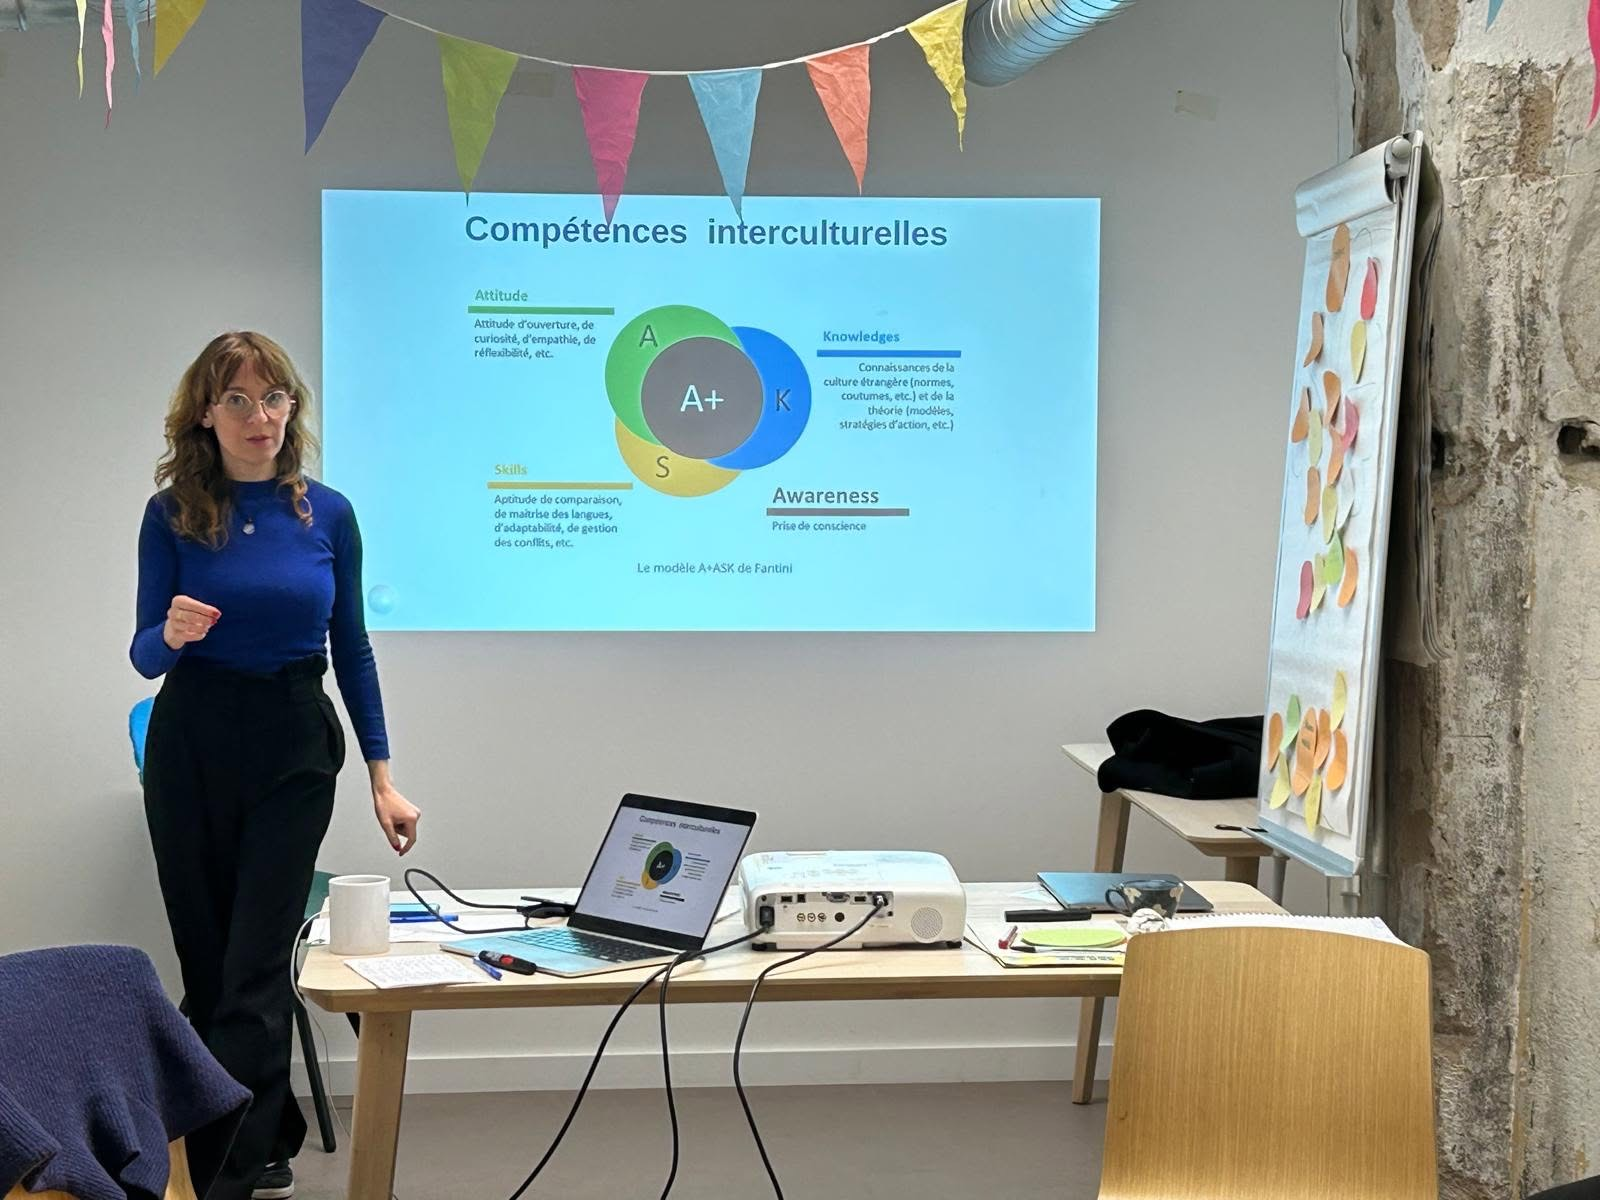
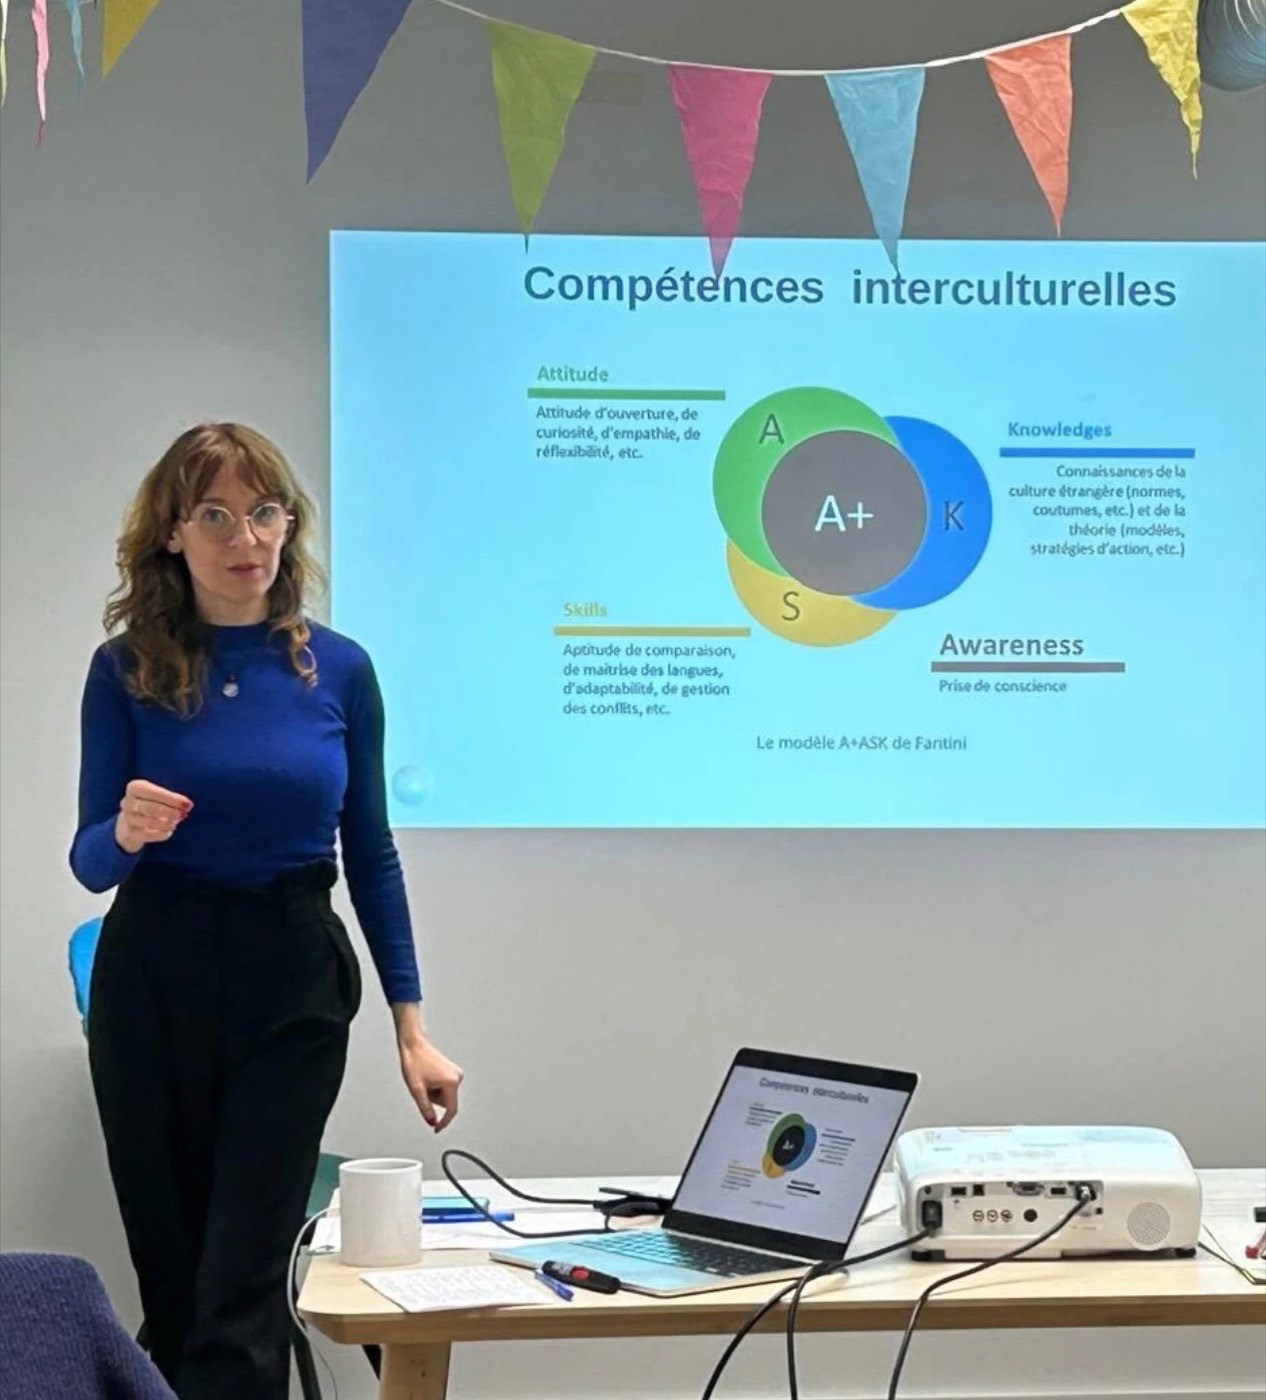
de-latour: narrower facilitation photo, School of Life version renamed to pop

diff --git a/de-latour/pop.html b/de-latour/pop.html
@@ -4,7 +4,7 @@
 <meta charset="utf-8">
 <meta name="viewport" content="width=device-width, initial-scale=1">
 <meta name="robots" content="noindex,nofollow">
-<title>Agata de Latour — School of Life</title>
+<title>Agata de Latour — pop</title>
 <link rel="preconnect" href="https://fonts.googleapis.com">
 <link rel="preconnect" href="https://fonts.gstatic.com" crossorigin>
 <link href="https://fonts.googleapis.com/css2?family=Barlow+Condensed:wght@600;700&family=Source+Serif+4:ital,opsz,wght@0,8..60,300..600;1,8..60,300..400&display=swap" rel="stylesheet">
@@ -237,7 +237,7 @@ body.locked #gate{display:flex}
 </div>
 
 <div class="bar">
-  <b>Agata de Latour</b><span style="opacity:.8;font-size:11.5px">School of Life · <a href="index.html" style="color:#fff">kolor →</a></span>
+  <b>Agata de Latour</b><span style="opacity:.8;font-size:11.5px">pop · <a href="index.html" style="color:#fff">kolor →</a></span>
   <div class="sp"></div>
   <button id="bPhone">Telefon</button>
 </div>
@@ -290,7 +290,7 @@ body.locked #gate{display:flex}
       </article>
 
       <article class="card">
-        <figure class="slot ph"><img src="img/facilitation.jpg" alt="" style="object-position:40% center"></figure>
+        <figure class="slot ph"><img src="img/facilitation.jpg" alt="" style="object-position:center 30%"></figure>
         <h3>Facilitation</h3>
         <p>Some meetings cannot be chaired, only held. Consultations where the decision is already resented, a team meeting after a conflict, two sides at one table who each believe the other has already won. I prepare with each side separately, run the day, and write the note afterwards in language both sides can sign.</p>
         <div class="who"><b>For</b>public institutions, organisations in crisis, teams after a change</div>

diff --git a/de-latour/index.html b/de-latour/index.html
@@ -291,7 +291,7 @@ footer .nm{font-family:var(--disp);font-size:18px;color:#E8EAF0}
 </div>
 
 <div class="bar">
-  <b>Agata de Latour</b><span style="opacity:.8;font-size:11.5px">kolor · <a href="szkola.html" style="color:#E8EAF0">School of Life →</a></span>
+  <b>Agata de Latour</b><span style="opacity:.8;font-size:11.5px">kolor · <a href="pop.html" style="color:#E8EAF0">pop →</a></span>
   <div class="sp"></div>
   <button id="bPhone">Telefon</button>
 </div>
@@ -345,7 +345,7 @@ footer .nm{font-family:var(--disp);font-size:18px;color:#E8EAF0}
       </article>
 
       <article class="card c2">
-        <figure class="slot ph"><img src="img/facilitation.jpg" alt="" style="object-position:40% center"></figure>
+        <figure class="slot ph"><img src="img/facilitation.jpg" alt="" style="object-position:center 30%"></figure>
         <h3>Facilitation</h3>
         <p>Some meetings cannot be chaired, only held. Consultations where the decision is already resented, a team meeting after a conflict, two sides at one table who each believe the other has already won. I prepare with each side separately, run the day, and write the note afterwards in language both sides can sign.</p>
         <div class="who"><b>For</b>public institutions, organisations in crisis, teams after a change</div>
